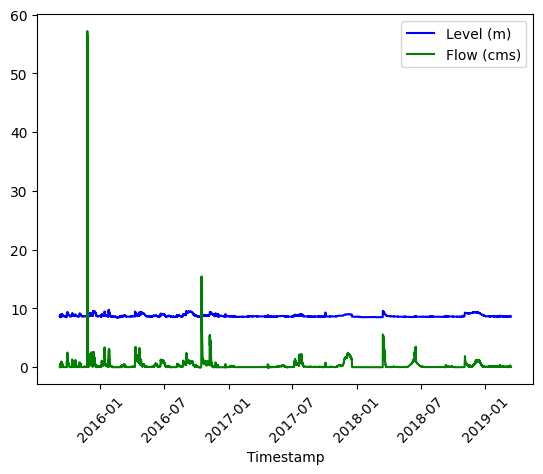
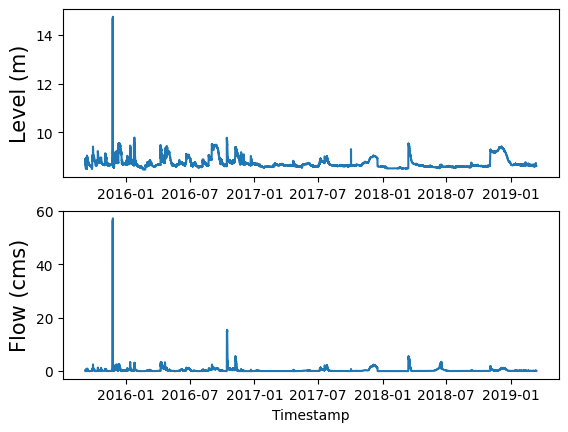
improve visualization of initial values image

Changed region(s): [[0.0, 0.0, 1.0, 0.9931], [0.0, 0.3912, 0.0589, 0.4213]]

diff --git a/src/data_visualization.py b/src/data_visualization.py
@@ -1,18 +1,27 @@
 import matplotlib.dates as mdates
 import numpy as np
 import seaborn as sns
-from matplotlib import pyplot as plt
+from matplotlib import pyplot as plt, gridspec
 
 from src.data_model import Node
 from src.utils import file_utils
 
 
 def test_display_initial_values(df_node, show=False):
-    plt.figure(1)
-    plt.plot(df_node['TimeNew'], df_node['Level'], "b-", label="Level (m)")
-    plt.plot(df_node['TimeNew'], df_node['Flow'], "g-", label="Flow (cms)")
-    plt.legend(loc="upper right")
-    plt.xticks(rotation=45)
+    gs = gridspec.GridSpec(2, 1)
+    fig = plt.figure()
+
+    ax = fig.add_subplot(gs[0])
+    ax.plot(df_node['TimeNew'], df_node['Level'])
+    ax.set_ylabel(r'Level (m)', size=15)
+    plt.tick_params(
+        axis='x',  # changes apply to the x-axis
+        labelbottom='off')  # labels along the bottom edge are off
+
+    ax = fig.add_subplot(gs[1], sharex=ax)
+    ax.plot(df_node['TimeNew'], df_node['Flow'])
+    ax.set_ylabel(r'Flow (cms)', size=15)
+
     plt.xlabel("Timestamp")
     plt.plot()
     file_utils.save_plot(plt, "test_display_initial_values")
